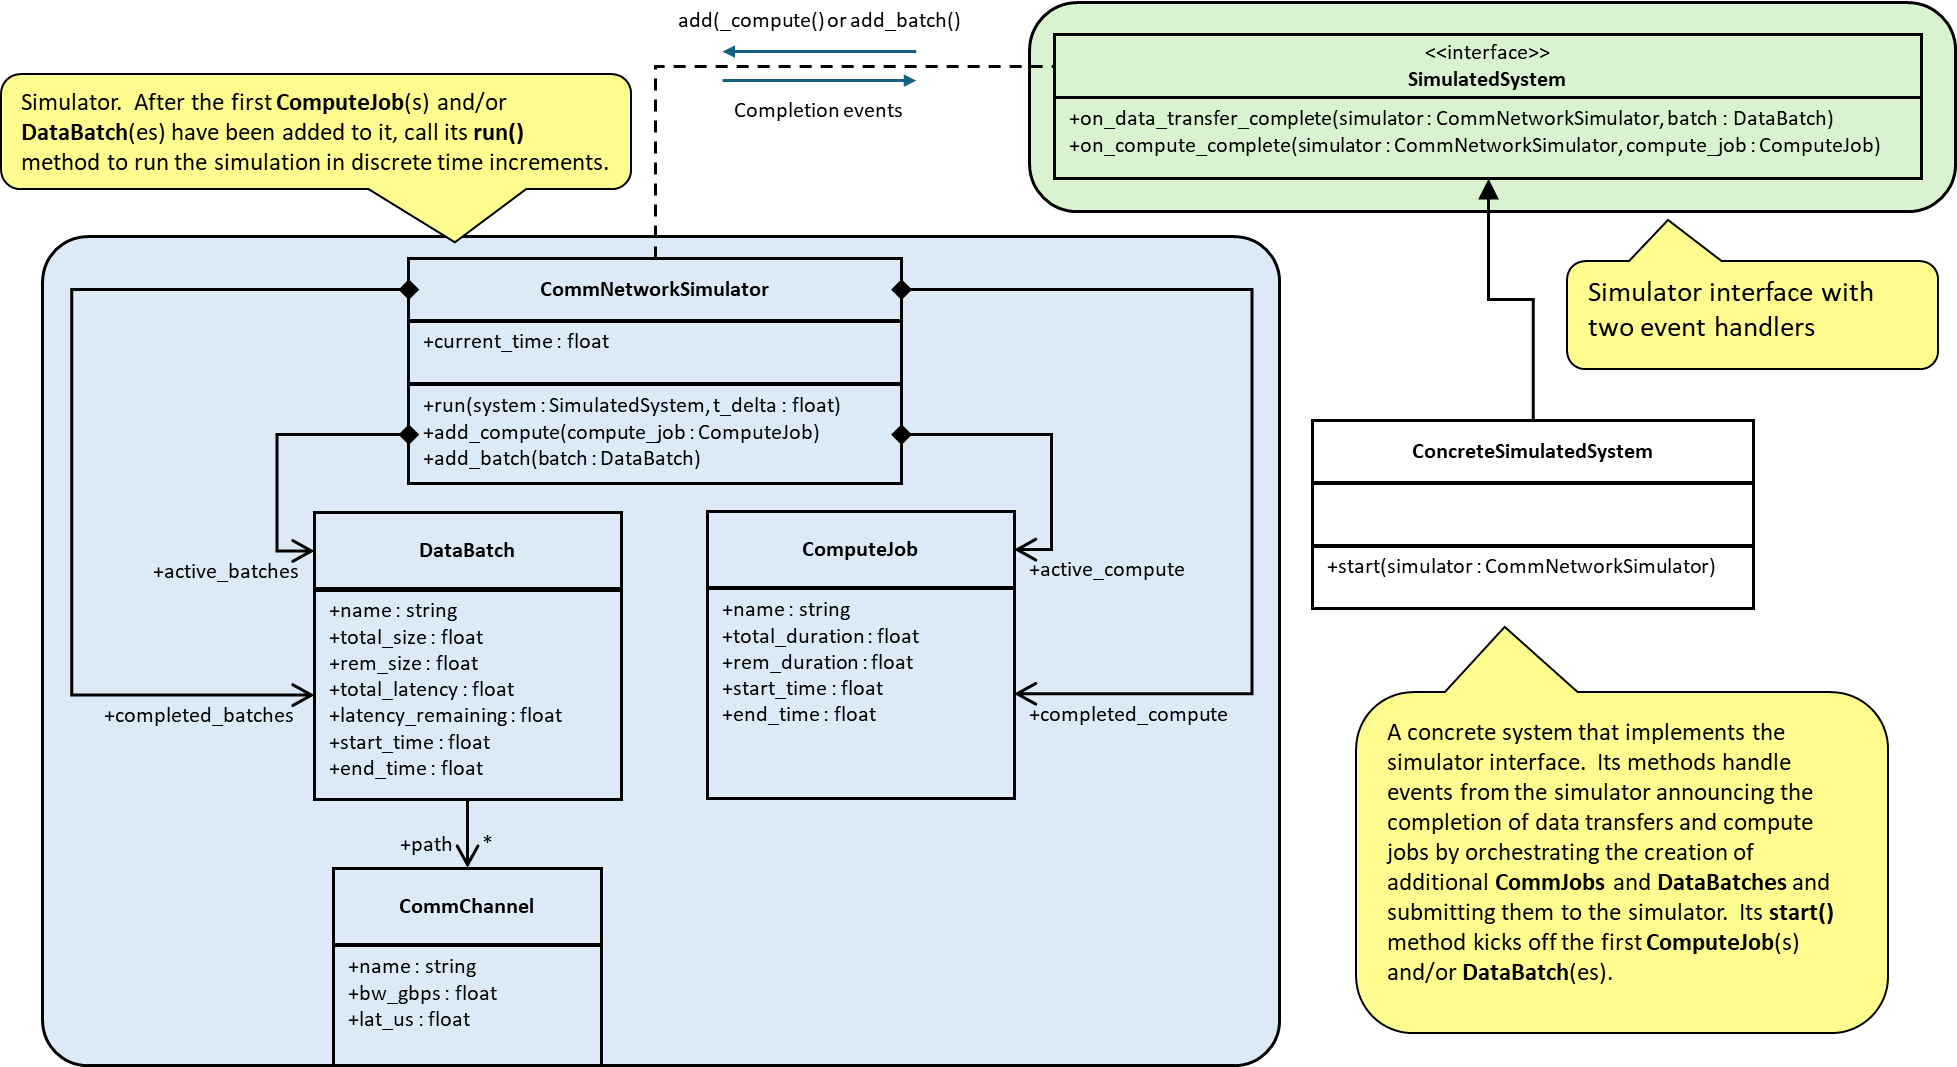
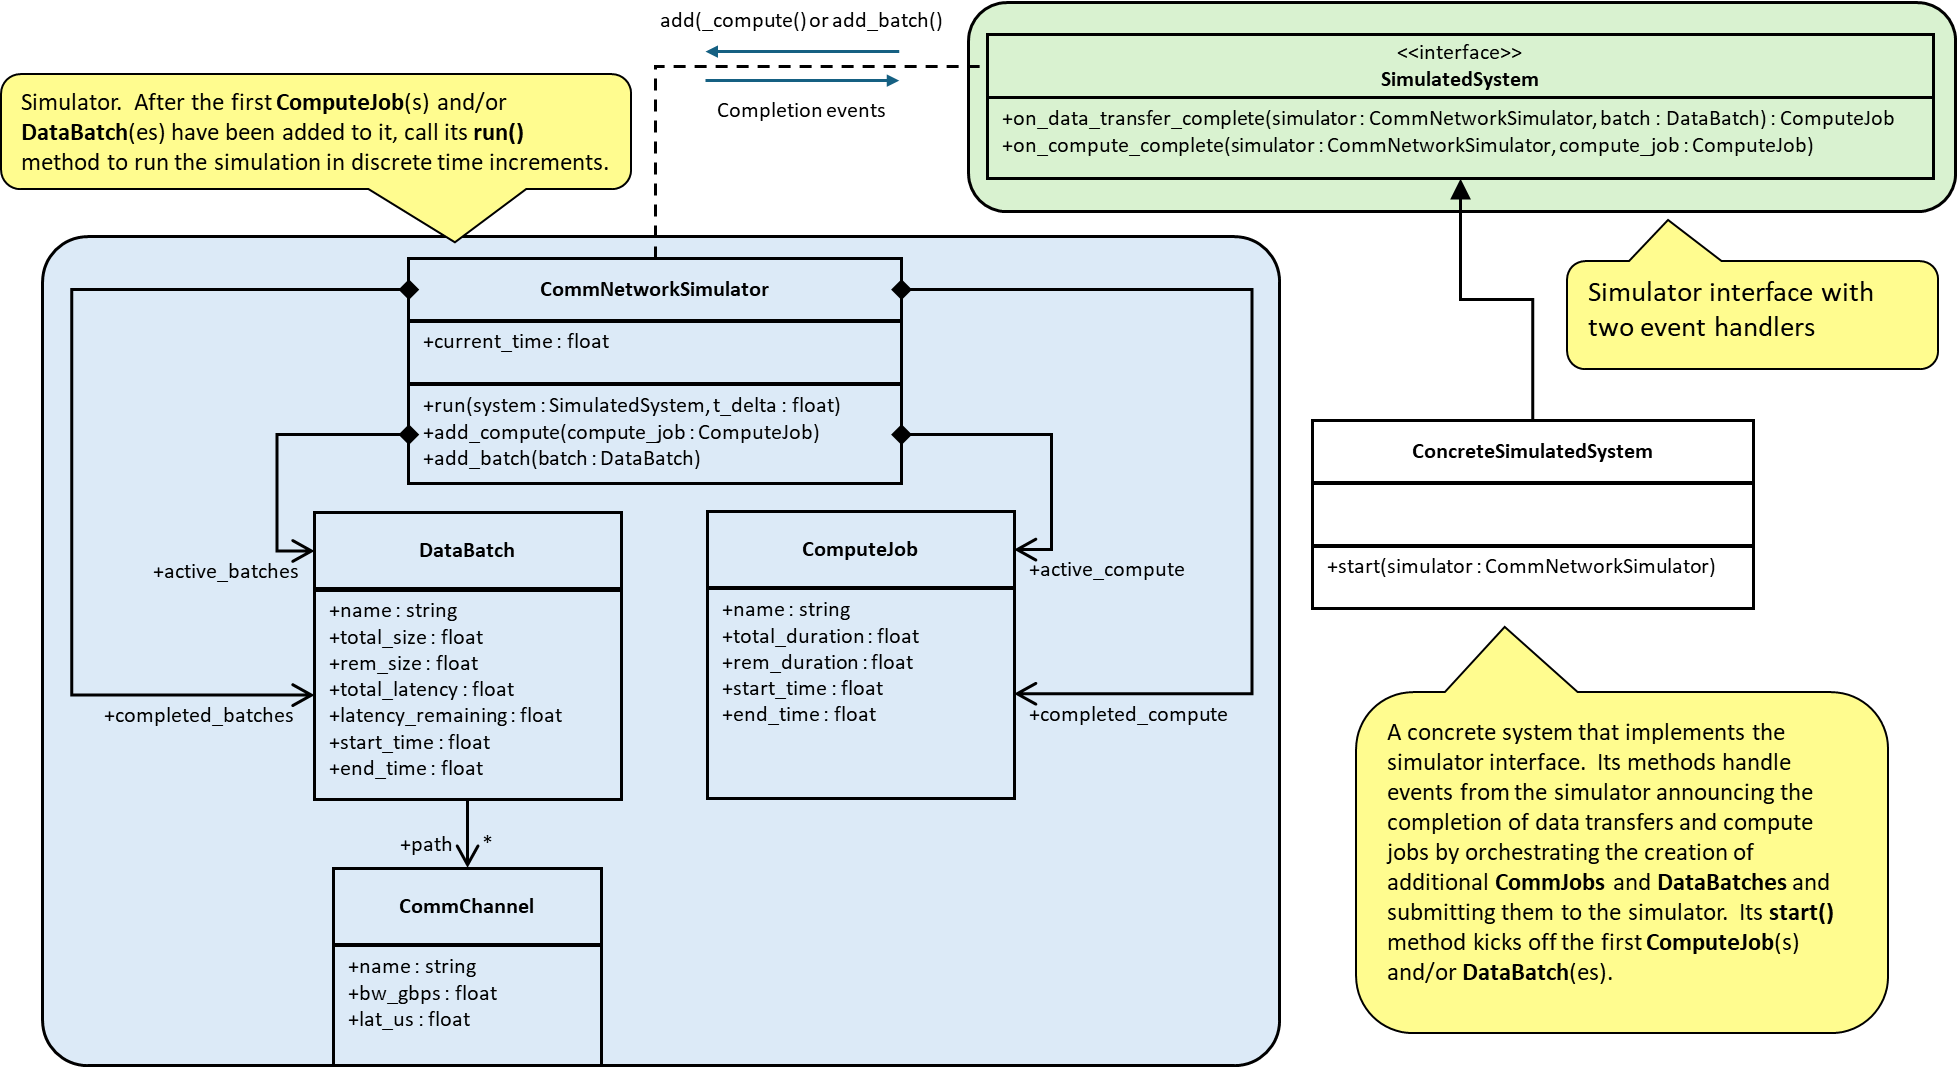
Minor doc fixes.

Changed region(s): [[0.3429, 0.0, 1.0, 0.2165], [0.9663, 0.1546, 1.0, 0.2165]]

diff --git a/README.md b/README.md
@@ -44,8 +44,8 @@ $$\text{maximize } \min_{i} (r_i) \text{ s.t. } \sum_{i \in \text{users}(e)} r_i
 
 ### 3.1 The SimulatedSystem Interface
 The framework relies on an inversion-of-control pattern. Users must implement the `SimulatedSystem` interface to handle the lifecycle of tasks:
-- **`onDataTransferComplete(simulator, batch)`**: Invoked when a batch clears its path latency and its payload is fully serialized.
-- **`onComputeComplete(simulator, job)`**: Invoked when a computation's duration has elapsed.
+- **`on_data_transfer_complete(simulator, batch)`**: Invoked when a batch clears its path latency and its payload is fully serialized.  May return a `ComputeJob`, which the simulator adds to its `active_compute` set, or may add `ComputeJob`s directly.
+- **`on_compute_complete(simulator, job)`**: Invoked when a computation's duration has elapsed.
 
 ### 3.2 The Simulator Engine (`CommNetworkSimulator`)
 The engine maintains two active queues (`active_batches` and `active_compute`) and a historical log of completed tasks. It executes a time-stepping loop where $\Delta t$ is dynamically calculated based on the smallest significant temporal feature of the system.
